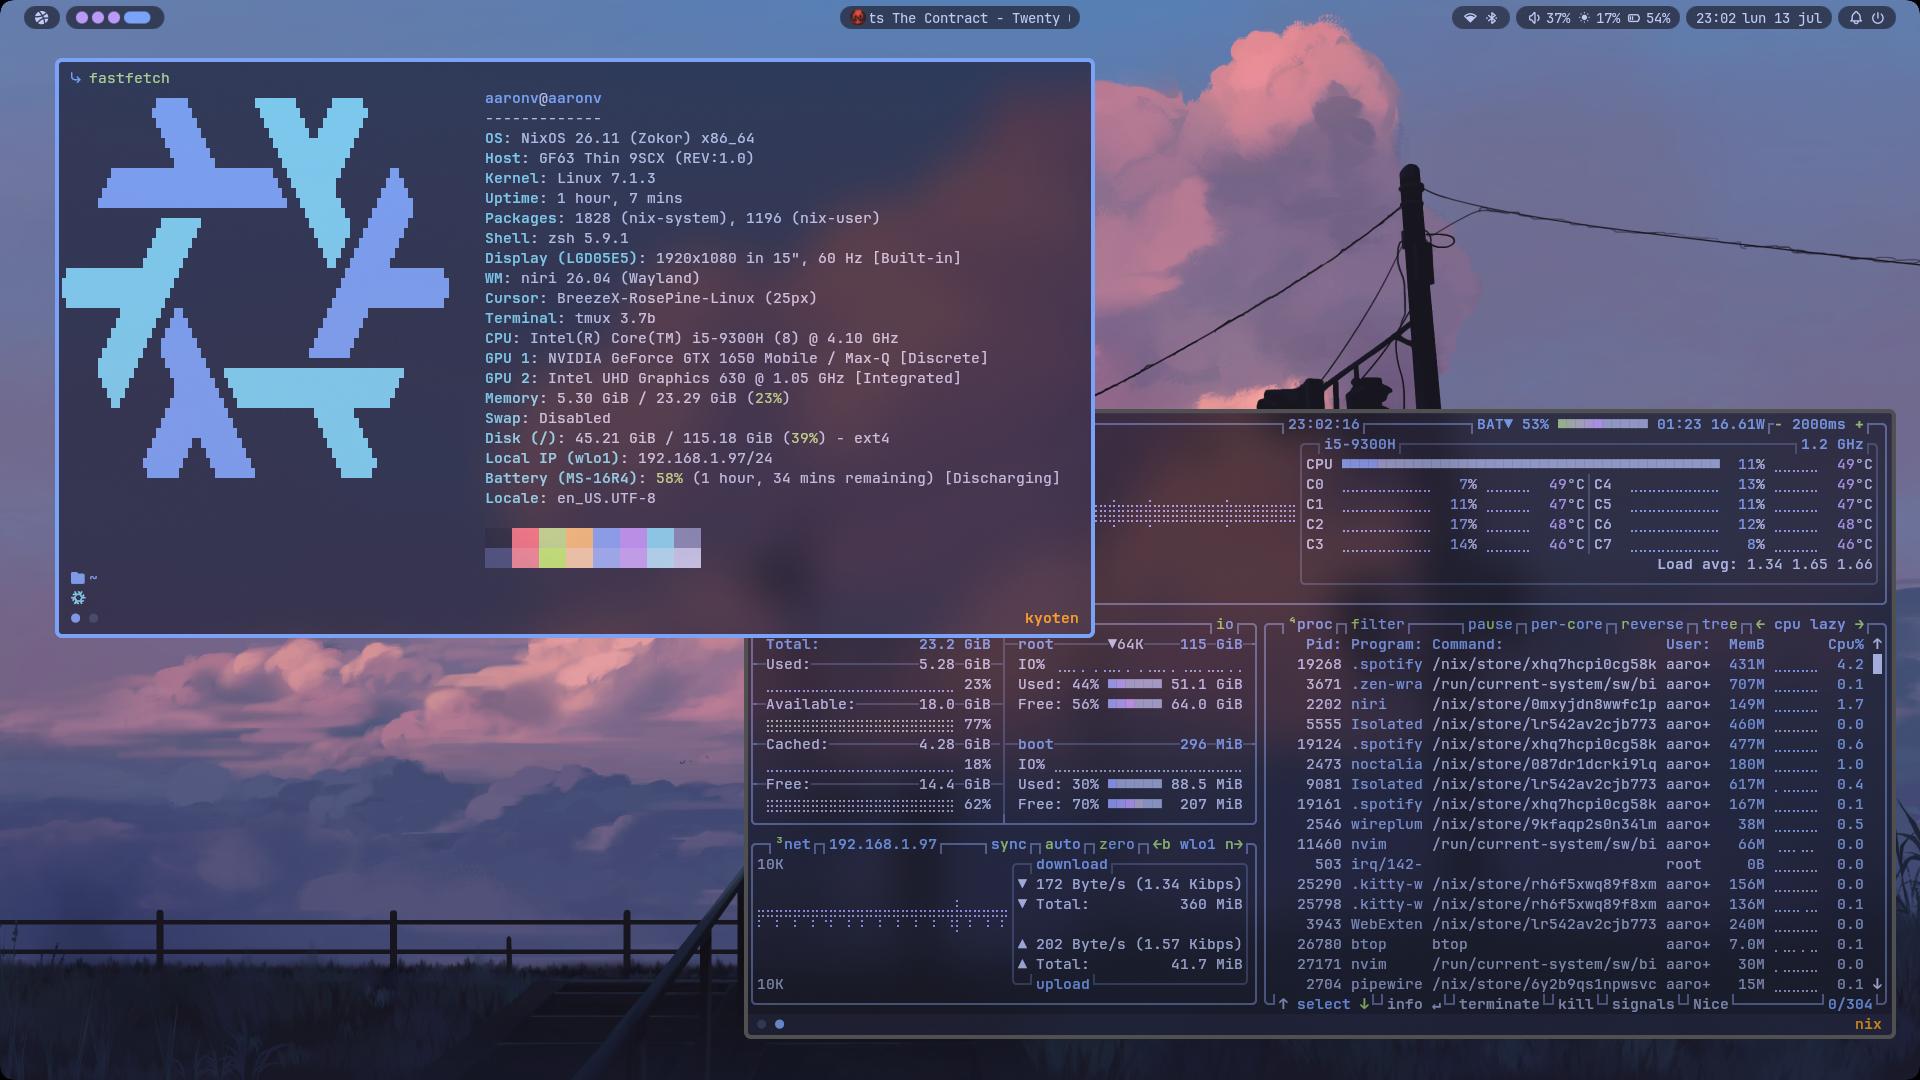
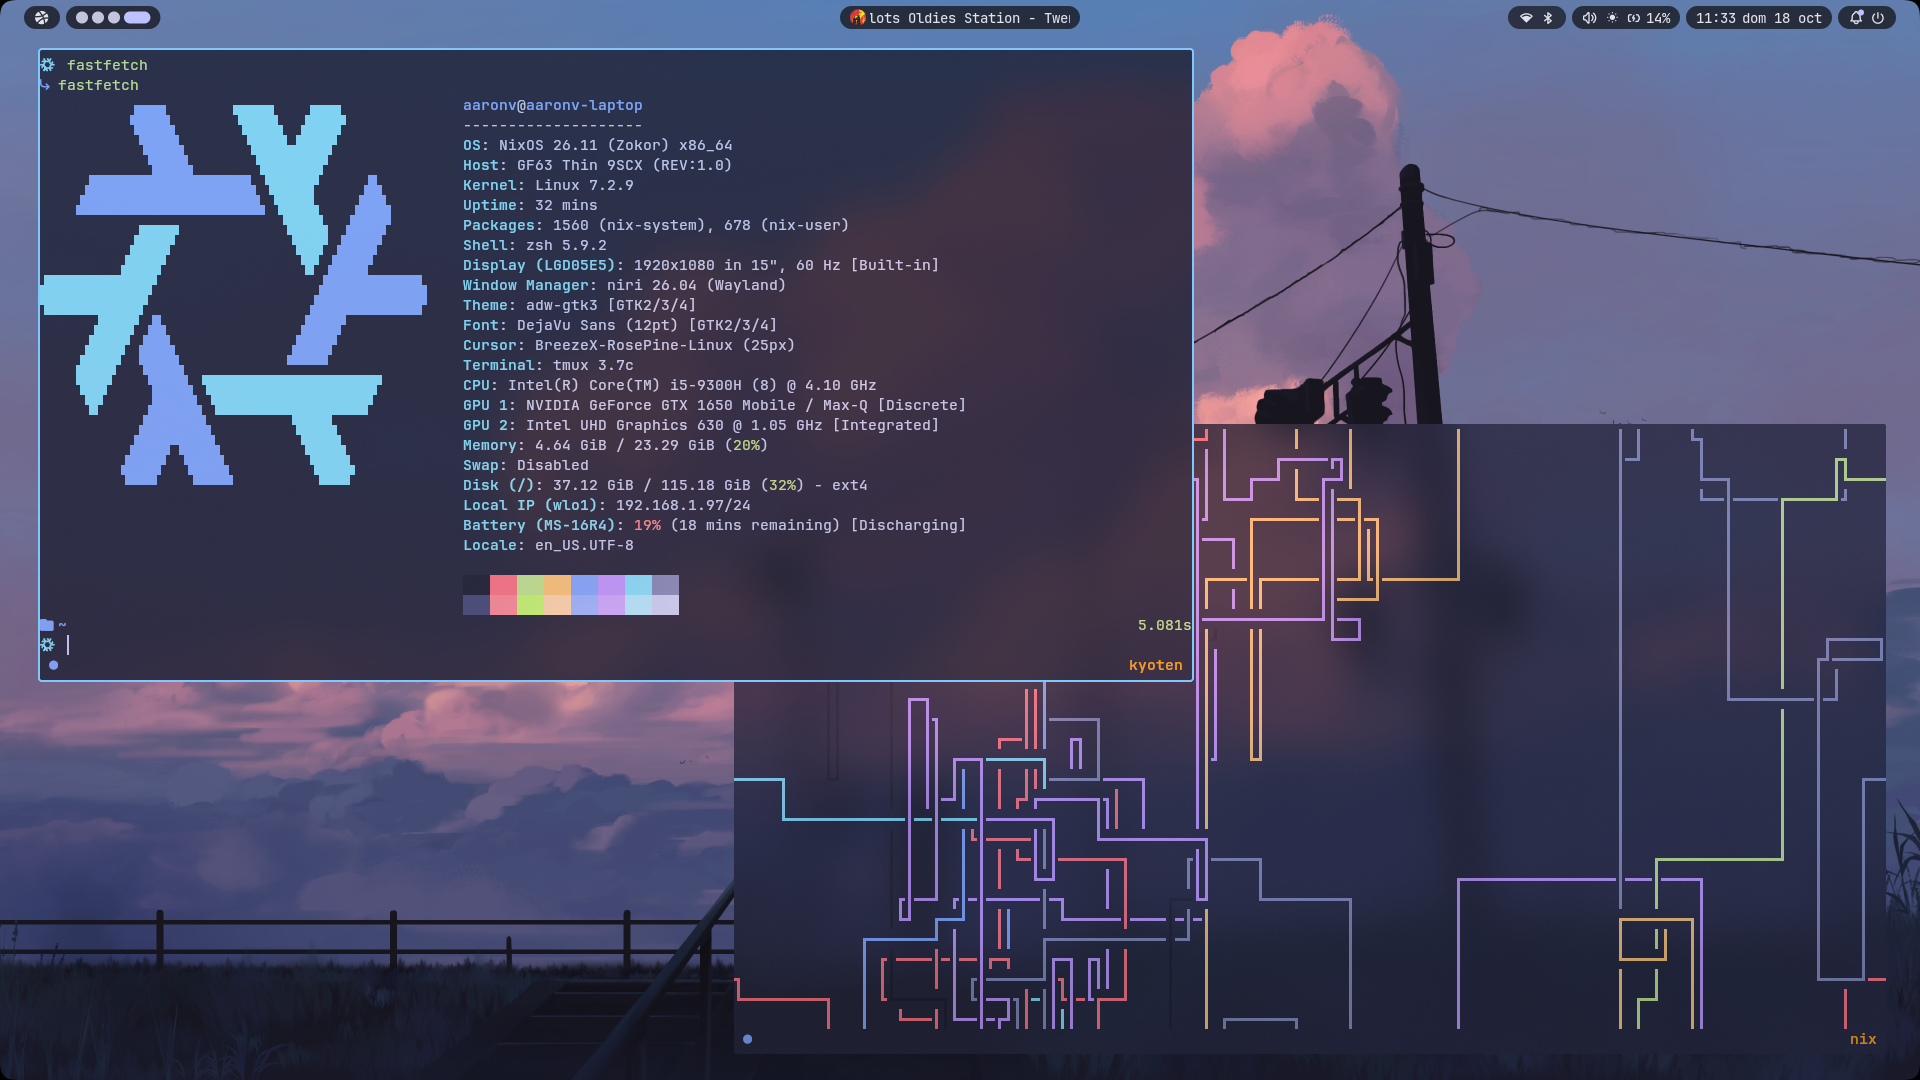
feat(documentation/README): Improve readme documentation

Changed region(s): [[0.0, 0.0, 1.0, 0.9778], [0.75, 0.0, 1.0, 0.0306]]

diff --git a/README.md b/README.md
@@ -4,68 +4,39 @@
 
 Personal NixOS and nix-darwin configuration by [Aaron Vargas](https://github.com/aaron70).
 
+---
+
 ## Hosts
 
 | Host | Arch | OS | User | GPU | Desktop | Notes |
 |------|------|----|---------|-----|----------|-----|
 | `pc` | x86_64 | NixOS | aaronv | NVIDIA | niri + Noctalia | Personal computer, for gaming and development. |
-| `laptop` | x86_64 | NixOS | aaronv | Intel | niri + Noctalia | Personal laptop, for development. |
+| `laptop` | x86_64 | NixOS | aaronv | NVIDIA | niri + Noctalia | Personal laptop, for development. |
 | `gpd` | x86_64 | NixOS (Jovian) | aaronv | AMD | niri + Noctalia | Handheld console, for gaming and occasionally development. |
 | `mac` | aarch64 | macOS | aaronv-work | Apple Silicon | AeroSpace | Work computer. |
 
 
-## Architecture
-
-The flake is wired with `flake-parts` + `import-tree`. The framework lives in `anvil/`, the concrete configuration lives in `modules/` (each subdirectory is auto-imported as a flake module).
-
-```
-flake.nix
-├── anvil/                  The framework, as glue code for nixos, home and darwin modules
-│   ├── declarations/       Option schemas of the framework's entities 
-│   ├── lib/                Helper Functions 
-│   └── options/            The anvil namespace where the entities are defined: anvil.hosts / anvil.users / anvil.features / anvil.programs
-└── modules/                My nixos configuration modules
-    ├── hosts/
-    ├── users/
-    ├── features/
-    ├── programs/
-    ├── declarations/       shared option schemas
-    ├── dotfiles/           config templates, scripts and configuration functions
-    └── secrets/            sops-encrypted secrets + wiring
-```
-
-**Key concepts**
-
-- **Entities** — hosts, users, features and programs. Each has `name`, free-form `metadata`, optional lists of children (`features`, `programs`, `users`) and per-platform fragments `nixos` / `darwin` / `home`.
-- **Fragments** — a fragment is a NixOS/nix-darwin/home-manager module merged into every target that enables its entity. Hosts without a fragment just aggregate the fragments of their features/programs/users.
-- **Refkeys** — children can be referenced by a plain string (`"gaming"`) or a refkey submodule `{ ref, variant, merge, override }` to select a variant or tweak an entity for a single consumer. Lists (and fragments) can also be *functions* of the context `{ host, user, program, feature }`, so a feature can, for example, read `host.metadata.mainUser`.
-- **Generation** — each host's `systems.<platform>` entry (a system string or `{ system = alias; }`) yields an output. `self.lib.mkHosts` collects the host's own fragment plus the fragments of every enabled feature, program and user (deduplicated by `name` / `name@variant`) and builds `nixosConfigurations`, `darwinConfigurations` and `homeConfigurations`.
-- **Context injection** — `self.lib.withContext ctx` injects the entity context into fragments, so configs stay generic and adapt to who's running them.
-- **Wrappers & dotfiles** — `self.wrappers.<name>.wrap` produces a configured package from `nix-wrapper-modules`; `self.dotfiles.<name>.default` returns the config text used by those wrappers (and home-manager). The shared theme comes from `self.lib.getColors`.
-
-The split mirrors intent: **host/user** define *who you are*, **features** what *you can do*, **programs** what *tools you have*.
-
-## Quick Start
-
-> Note: `.envrc` (direnv) ships with the repo but the flake currently defines no `devShell`, so `direnv allow` has no effect for now.
+## Nix aliases
 
 The shell installs host-specific aliases (baked for the host you're on, pointing at `host.metadata.nixPath`):
 
-| Alias | Runs |
-|-------|------|
-| `nswitch` | `nh os switch <nixPath> -H <this-host>` |
-| `ntest` | `nh os test <nixPath> -H <this-host>` |
-| `nboot` | `nh os boot <nixPath> -H <this-host>` |
-| `nbuild-vm` | `nh os build-vm <nixPath> -H <this-host>` |
-| `nclean` | `nh clean all --optimise -k <configurationLimit>` |
-| `nshell` | `nix-shell --command <shell> -p` |
+
+| Alias | Runs | OS  |
+|-------|------| --- |
+| `nswitch` | `nh os switch <nixPath> -H <this-host>` | `nixos` `darwin` |
+| `nclean` | `nh clean all --optimise -k <configurationLimit>` | `nixos` `darwin` |
+| `nshell` | `nix-shell --command <shell> -p` | `nixos` `darwin` |
+| `ntest` | `nh os test <nixPath> -H <this-host>` | `nixos` |
+| `nboot` | `nh os boot <nixPath> -H <this-host>` | `nixos` |
+| `nbuild-vm` | `nh os build-vm <nixPath> -H <this-host>` | `nixos` |
+
 
 Manually (e.g. from a machine without the aliases):
 
 ```sh
-# Rebuild and switch (daily driver)
+# Rebuild and switch
 sudo nixos-rebuild switch --flake .#pc       # pc | laptop | gpd
-darwin-rebuild switch --flake .#mac          # once implemented
+darwin-rebuild switch --flake .#mac          # mac
 
 # Update inputs
 nix flake update                             # all inputs
@@ -75,64 +46,79 @@ nix flake lock --update-input nixpkgs        # a single input
 nix fmt
 ```
 
+
 ## Workflows
 
-**Test a change in a VM**
+> Supported platforms: `nixos`, `darwin` and `home`
+
+### Test a change in a VM
 
 `nbuild-vm` boots the host in a QEMU VM. It uses `virtualisation.vmVariant`, which forces the password secret off and sets a fixed `initialPassword = "anvil"` (see `modules/users/aaronv.nix`).
 
-**Add a new host**
+### Add a new host
 
-1. Create `modules/hosts/<name>.nix` declaring `anvil.hosts.<name>` — `systems.nixos`, `users`, `features`, `programs`, `metadata` and the `nixos` fragment — plus a `<name>-hardware` nixosModule.
+1. Create the host file on _**modules/hosts/<name>.nix**_ file, declaring `anvil.hosts.<name>`.
+    * Define the system target platform `systems.<platform>`. (e.g. **x86_64-linux**)
+    * Define the list of `users` the host have.
+    * Define the list of `programs` and `features` the host will install.
+    * Define the `metadata` for the host. (e.g. The `nixPath` for the aliases)
+    * Define the code fragments for the host `<platform>` with the nix code for the host.
 2. Register the machine's age key in `.sops.yaml` (see [Secrets](#security)).
-3. Build: `sudo nixos-rebuild switch --flake .#<name>`.
+3. Build the host `sudo nixos-rebuild switch --flake .#<name>`
 
-**Add a feature or program**
+### Add a feature or program
 
-- `modules/features/<name>.nix` → `anvil.features.<name>` with `nixos` / `darwin` / `home` fragments; it can pull in programs and other features.
-- `modules/programs/<name>.nix` → `anvil.programs.<name>` with `getPackage` and fragments.
+1. Create the _**modules/features/<name>.nix**_ or the _**modules/programs/<name>.nix**_ files declaring `anvil.features.<name>` and `anvil.programs.<name>` respectively.
+    * Define the code fragments `<platform>` with the nix code for the feature/program.
+    * Define the list of `programs` for the feature/program.
+    * Define the list of `features` for the feature/program.
+    * (**Only programs**) For programs you can define a function `getPackage` to get the package of the program.
+2. Reference it by name (or a refkey) from any entity via the `features` or `programs` fields. The `modules/` import-tree automatically registers it with the flake options.
 
-Reference it by name (or a refkey) from any entity. The `modules/` import-tree automatically registers it with the flake options.
+### Add a user
 
-**Add a user**
+1. Create the _**modules/users/<name>.nix**_ file declaring `anvil.users.<name>`.
+    * Define the `name` and `description` of the user.
+    * Define the code fragments `<platform>` with the nix code for the user.
+    * Define the `metadata` for the user. 
+    * Define the list of `programs` and `features` the user will install. 
+    * Define the `homeDir.nixos` and `homeDir.darwin` to set the home directory for each OS.
+2. Reference it by name (or a refkey) from the host via the `users` field. The `modules/` import-tree automatically registers it with the flake options.
 
-Create `modules/users/<name>.nix` → `anvil.users.<name>` with its `nixos` / `darwin` / `home` fragments, then attach it on the host via `users = [...]`.
-
-## Security
+## Security 
 
 ### Secrets
 
-Secrets use [sops-nix](https://github.com/Mic92/sops-nix) with age.
+Secrets use [sops-nix](https://github.com/Mic92/sops-nix) with age keys.
 
-- On first activation each host generates its own age keypair at `/path/to/key.txt` (`sops.age.generateKey = true`); `SOPS_AGE_KEY_FILE` points there.
-- `.sops.yaml` lists an admin key (`personal_admin`) plus one key per device (`pc`, `laptop`, `gpd`). A device can only *decrypt* (and edit) secrets if its public key appears in that file.
-- `modules/secrets/personal.yaml` holds the encrypted secrets (`email`, `password`), wired by the `personal-secrets` feature:
-  - `password` → the user's `hashedPasswordFile`.
-  - git's `user.name` / `user.email` are rendered through `sops.templates."gitconfig-personal"` (see `modules/programs/git.nix`).
-`age` and `sops` are installed on every host and the `sops` feature already exports `SOPS_AGE_KEY_FILE=/path/to/key.txt`, so these commands work out of the box on a managed host. The prefix is only needed when running outside a host that doesn't set it.
+* On first activation each host generates its own age keypair at `/var/lib/sops-nix/key.txt` `SOPS_AGE_KEY_FILE` points there.
+* `.sops.yaml` lists the keys registered. A device can only decrypt (and edit) secrets if its public key appears in that file.
+* `modules/secrets/<name>.yaml` holds the encrypted secrets, wired by the associated `modules/secerts/<name>.nix` feature.
+
+`age` and `sops` are installed on every host and the `sops` feature already exports `SOPS_AGE_KEY_FILE=/var/lib/sops-nix/key.txt`, so these commands work out of the box on a managed host, just use `sudo` to use the host key.
+The prefix is only needed when running outside a host that doesn't set it or with another key.
 
 **Commands**
 
 ```sh
 # Edit a secret (opens your $EDITOR on the decrypted file)
-SOPS_AGE_KEY_FILE=/path/to/key.txt sops modules/secrets/personal.yaml
+SOPS_AGE_KEY_FILE=/path/to/key.txt sops modules/secrets/<name>.yaml
 
 # Set a single value (no editor)
-SOPS_AGE_KEY_FILE=/path/to/key.txt sops set modules/secrets/personal.yaml '["password"]' '<value>'
+SOPS_AGE_KEY_FILE=/path/to/key.txt sops set modules/secrets/<name>.yaml '["password"]' '<value>'
 
 # Read/verify without touching the file
-SOPS_AGE_KEY_FILE=/path/to/key.txt sops -d modules/secrets/personal.yaml
-SOPS_AGE_KEY_FILE=/path/to/key.txt sops -d --extract '["email"]' modules/secrets/personal.yaml
+SOPS_AGE_KEY_FILE=/path/to/key.txt sops -d modules/secrets/<name>.yaml
+SOPS_AGE_KEY_FILE=/path/to/key.txt sops -d --extract '["email"]' modules/secrets/<name>.yaml
 
 # Give a new device access:
 age-keygen -o /tmp/key.txt          # 1. generate a keypair
 age-keygen -y /tmp/key.txt          # 2. prints its public key -> age1...
-# 3. add `- &<name>  age1...` under `keys:` and `- *<name>` in the
-#    creation rule of `.sops.yaml`
-SOPS_AGE_KEY_FILE=/path/to/key.txt sops updatekeys modules/secrets/personal.yaml   # 4. re-encrypt with the new recipient set
+#                                     3. add `- &<name>  age1...` under `keys:` and `- *<name>` in the creation rule of `.sops.yaml`
+SOPS_AGE_KEY_FILE=/path/to/key.txt sops updatekeys modules/secrets/<name>.yaml   # 4. re-encrypt with the new recipient set
 
 # Rotate the data key (re-encrypts in place)
-SOPS_AGE_KEY_FILE=/path/to/key.txt sops -r -i modules/secrets/personal.yaml
+SOPS_AGE_KEY_FILE=/path/to/key.txt sops -r -i modules/secrets/<name>.yaml
 ```
 
 If a machine can't decrypt (e.g. git user/email missing), its key likely isn't in `.sops.yaml` yet — see [Troubleshooting](#troubleshooting).
